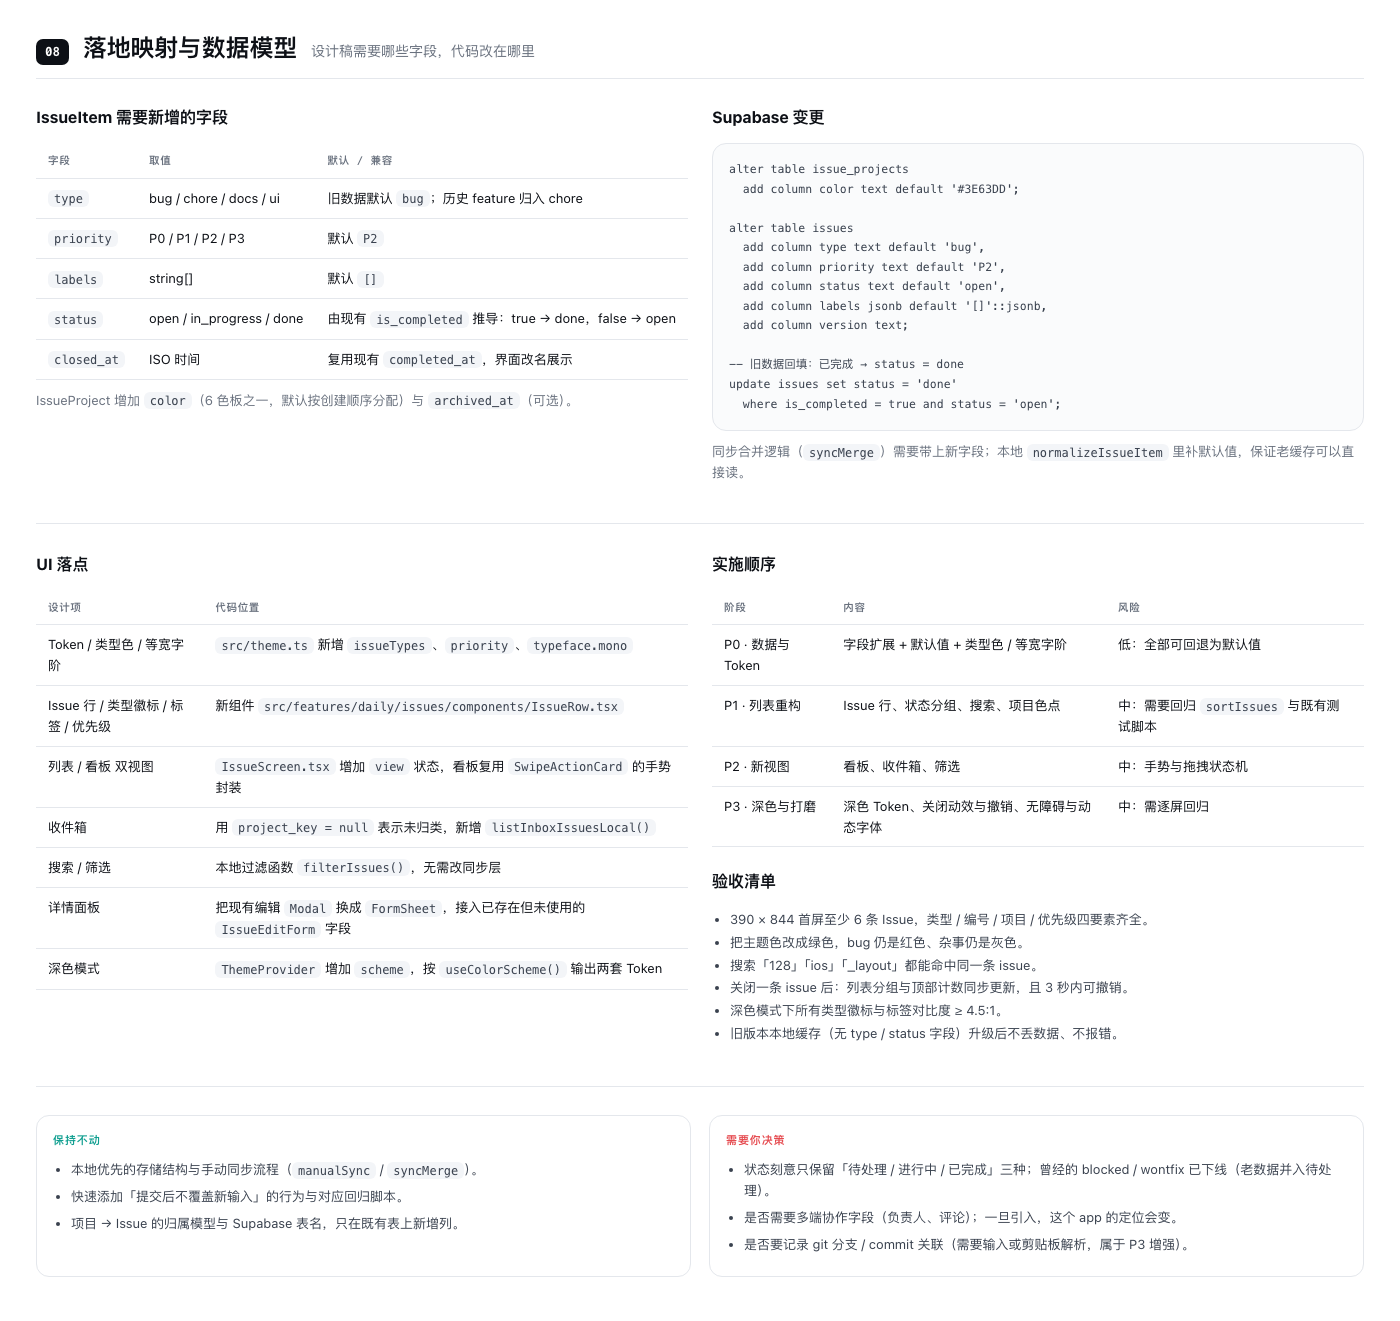
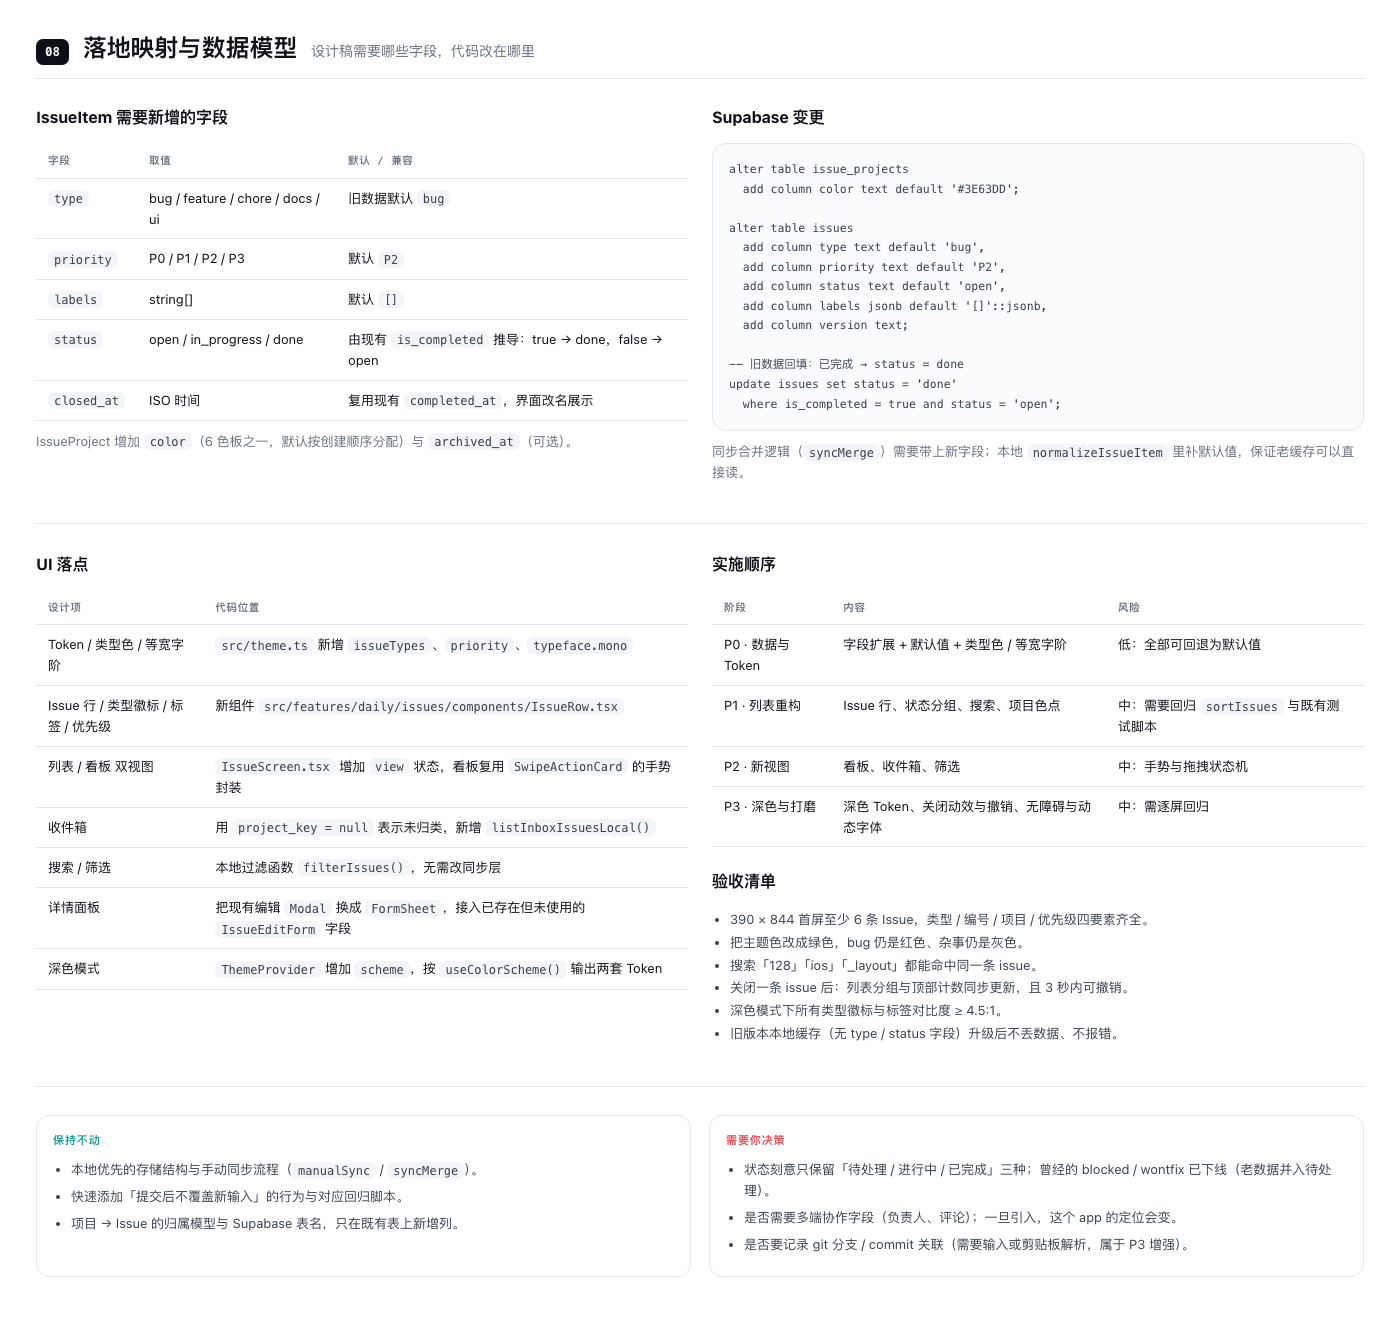
feat: 类型重新加入「功能」（Bug/功能/杂事/文档/界面），同步设计稿（含版本 1.0.3 (7)）

Changed region(s): [[0.0307, 0.0931, 0.4914, 0.3414]]

diff --git a/docs/design/issue-redesign.html b/docs/design/issue-redesign.html
@@ -15,6 +15,7 @@
     --accent:#3E63DD; --accent-dark:#2E4BC0; --accent-soft:#EDF1FD;
 
     --bug:#E5484D; --bug-bg:#FDEFEF;
+    --feat:#0E9E8F; --feat-bg:#E7F6F4;
     --chore:#67707E; --chore-bg:#EEEFF2;
     --docs:#3E63DD; --docs-bg:#EDF1FD;
     --ui:#7048E8; --ui-bg:#F1EDFE;
@@ -130,6 +131,7 @@
   .irow.done{background:#FBFCFC}
   .tbadge{width:22px;height:22px;border-radius:7px;display:flex;align-items:center;justify-content:center;flex:0 0 auto;margin-top:1px}
   .tbadge.bug{background:var(--bug-bg);color:var(--bug)}
+  .tbadge.feat{background:var(--feat-bg);color:var(--feat)}
   .tbadge.chore{background:var(--chore-bg);color:var(--chore)}
   .tbadge.docs{background:var(--docs-bg);color:var(--docs)}
   .tbadge.ui{background:var(--ui-bg);color:var(--ui)}
@@ -201,6 +203,7 @@
   .typepick .t{flex:1;height:52px;border-radius:12px;background:var(--surface-2);display:flex;flex-direction:column;align-items:center;justify-content:center;gap:3px;font-size:10.5px;font-weight:650;color:var(--muted)}
   .typepick .t svg{width:16px;height:16px}
   .typepick .t.sel{background:var(--bug-bg);color:var(--bug);box-shadow:inset 0 0 0 1.5px rgba(229,72,77,.35)}
+  .typepick .t.sel.feat{background:var(--feat-bg);color:var(--feat);box-shadow:inset 0 0 0 1.5px rgba(14,158,143,.35)}
   .typepick .t.sel.docs{background:var(--docs-bg);color:var(--docs);box-shadow:inset 0 0 0 1.5px rgba(62,99,221,.35)}
   .typepick .t.sel.ui{background:var(--ui-bg);color:var(--ui);box-shadow:inset 0 0 0 1.5px rgba(112,72,232,.35)}
 
@@ -299,6 +302,7 @@
   .dark .home-ind{background:rgba(255,255,255,.3)}
   .dark .btn.line{background:#171B22;border-color:#2A303C;color:#B6BECC}
   .dark .tbadge.bug{background:rgba(229,72,77,.16)}
+  .dark .tbadge.feat{background:rgba(14,158,143,.16)}
   .dark .tbadge.chore{background:rgba(120,130,145,.18)}
   .dark .tbadge.docs{background:rgba(96,126,240,.18)}
   .dark .tbadge.ui{background:rgba(112,72,232,.2)}
@@ -330,6 +334,7 @@
 </div>
 <script>
 const S = {
+  feat:'<svg viewBox="0 0 24 24" fill="none" stroke="currentColor" stroke-width="1.9" stroke-linecap="round" stroke-linejoin="round"><path d="M12 3.6l2 5 5 2-5 2-2 5-2-5-5-2 5-2z"/><path d="M18.6 16.6l.7 1.7 1.7.7-1.7.7-.7 1.7-.7-1.7-1.7-.7 1.7-.7z"/></svg>',
   bug:'<svg viewBox="0 0 24 24" fill="none" stroke="currentColor" stroke-width="1.9" stroke-linecap="round" stroke-linejoin="round"><path d="M8 8a4 4 0 0 1 8 0v3a4 4 0 0 1-8 0z"/><path d="M4.5 10h3.5M16 10h3.5M5 15l3-1.6M19 15l-3-1.6M8.6 5 7 3.4M15.4 5 17 3.4M12 15v4"/></svg>',
   chore:'<svg viewBox="0 0 24 24" fill="none" stroke="currentColor" stroke-width="1.9" stroke-linecap="round" stroke-linejoin="round"><path d="M14.8 6.2a3.6 3.6 0 0 1-4.9 4.6L5.6 15a2 2 0 1 0 2.8 2.8l4.2-4.3a3.6 3.6 0 0 1 4.6-4.9l-2.1 2.1.6 1.9 1.9.6z"/></svg>',
   docs:'<svg viewBox="0 0 24 24" fill="none" stroke="currentColor" stroke-width="1.9" stroke-linecap="round" stroke-linejoin="round"><path d="M13.5 3.5H7.4A2 2 0 0 0 5.4 5.5v13a2 2 0 0 0 2 2h9.2a2 2 0 0 0 2-2V9z"/><path d="M13.5 3.5V9h5.1M8.6 13h6.8M8.6 16.6h4.4"/></svg>',
@@ -358,8 +363,8 @@ const S = {
   info:'<svg viewBox="0 0 24 24" fill="none" stroke="currentColor" stroke-width="1.9" stroke-linecap="round"><circle cx="12" cy="12" r="9"/><path d="M12 11v5.5M12 7.8v.2"/></svg>',
 };
 
-const TYPE = {bug:'bug', chore:'chore', docs:'docs', ui:'ui'};
-const TYPE_LABEL = {bug:'BUG', chore:'CHORE', docs:'DOCS', ui:'UI'};
+const TYPE = {bug:'bug', feat:'feat', chore:'chore', docs:'docs', ui:'ui'};
+const TYPE_LABEL = {bug:'BUG', feat:'FEAT', chore:'CHORE', docs:'DOCS', UI:'UI'};
 const PROJ = {
   superme:{name:'SuperMe', color:'#3E63DD'},
   booky:{name:'Booky', color:'#0E9E8F'},
@@ -375,7 +380,7 @@ const ISSUES = [
    title:'iOS 27 上 UIScene 生命周期缺失导致启动白屏', labels:['ios','native'], badge:'2'},
   {id:'ISS-127', type:'bug', prio:'P1', proj:'superme', status:'open', updated:'昨天',
    title:'prebuild 后 MARKETING_VERSION 未同步到 pbxproj', labels:['release']},
-  {id:'ISS-121', type:'chore', prio:'P1', proj:'superme', status:'open', updated:'3 天前',
+  {id:'ISS-121', type:'feat', prio:'P1', proj:'superme', status:'open', updated:'3 天前',
    title:'列表支持按标签与优先级快速筛选', labels:['体验']},
   {id:'ISS-118', type:'chore', prio:'P2', proj:'superme', status:'open', updated:'5 天前',
    title:'升级 expo-audio 到 1.1.1 并回归后台播放', labels:['deps']},
@@ -630,7 +635,7 @@ document.getElementById('rest').insertAdjacentHTML('beforeend',
       '<div class="card-soft"><span class="tag new">视觉基调</span>' +
         '<div class="kv small" style="margin-top:10px;grid-template-columns:110px 1fr">' +
           '<b>克制的中性底</b><span>背景 <code>#F4F5F7</code>、表面纯白，靠 1px 描边分层；阴影只给浮层。</span>' +
-          '<b>彩色只给语义</b><span>类型（bug 红 / chore 灰 / docs 蓝 / UI 紫）与优先级是唯一的强烈色块。</span>' +
+          '<b>彩色只给语义</b><span>类型（bug 红 / feat 青 / chore 灰 / docs 蓝 / UI 紫）与优先级是唯一的强烈色块。</span>' +
           '<b>等宽承载数据</b><span>编号、标签输入、计数用 SF Mono，与正文形成「工具感」对比。</span>' +
           '<b>更小的圆角</b><span>行 12 / 卡片 12 / 面板 26，比现在的 16 更利落，接近 GitHub 与 Linear 的手感。</span>' +
         '</div></div>' +
@@ -644,6 +649,7 @@ document.getElementById('rest').insertAdjacentHTML('beforeend',
     '<h3>类型（Issue type）</h3>' +
     '<div class="swatch-row">' +
       '<div class="sw"><div class="c" style="background:#E5484D"></div><div class="m"><b>bug</b><span>#E5484D</span></div></div>' +
+      '<div class="sw"><div class="c" style="background:#0E9E8F"></div><div class="m"><b>feature 功能</b><span>#0E9E8F</span></div></div>' +
       '<div class="sw"><div class="c" style="background:#67707E"></div><div class="m"><b>chore</b><span>#67707E</span></div></div>' +
       '<div class="sw"><div class="c" style="background:#3E63DD"></div><div class="m"><b>docs</b><span>#3E63DD</span></div></div>' +
       '<div class="sw"><div class="c" style="background:#7048E8"></div><div class="m"><b>ui / design</b><span>#7048E8</span></div></div>' +
@@ -769,6 +775,7 @@ function newIssueScreen(){
       '</div>' +
       '<div class="typepick">' +
         '<span class="t sel">' + S.bug + 'Bug</span>' +
+        '<span class="t feat">' + S.feat + '功能</span>' +
         '<span class="t">' + S.chore + '杂事</span>' +
         '<span class="t">' + S.docs + '文档</span>' +
         '<span class="t">' + S.ui + '界面</span>' +
@@ -801,7 +808,7 @@ function filterScreen(){
       '<div><div class="lbl2" style="margin-bottom:7px">类型</div>' +
         '<div class="spec-row" style="gap:7px">' +
           '<span class="lbl" style="height:26px;padding:0 10px;font-size:11.5px;border-radius:8px;background:var(--bug-bg);color:var(--bug)">bug 12</span>' +
-          '<span class="lbl" style="height:26px;padding:0 10px;font-size:11.5px;border-radius:8px">ui 4</span>' +
+          '<span class="lbl" style="height:26px;padding:0 10px;font-size:11.5px;border-radius:8px">feature 6</span>' +
           '<span class="lbl" style="height:26px;padding:0 10px;font-size:11.5px;border-radius:8px">chore 2</span>' +
           '<span class="lbl" style="height:26px;padding:0 10px;font-size:11.5px;border-radius:8px">docs 1</span>' +
         '</div></div>' +
@@ -990,6 +997,7 @@ document.getElementById('rest').insertAdjacentHTML('beforeend',
       '<div class="specimen"><b class="small">类型徽标 / 优先级 / 状态</b>' +
         '<div class="spec-row">' +
           '<span style="display:flex;align-items:center;gap:6px;font-size:11.5px;color:var(--doc-muted)">' + tbadge('bug') + 'BUG</span>' +
+          '<span style="display:flex;align-items:center;gap:6px;font-size:11.5px;color:var(--doc-muted)">' + tbadge('feat') + 'FEAT</span>' +
           '<span style="display:flex;align-items:center;gap:6px;font-size:11.5px;color:var(--doc-muted)">' + tbadge('chore') + 'CHORE</span>' +
           '<span style="display:flex;align-items:center;gap:6px;font-size:11.5px;color:var(--doc-muted)">' + tbadge('docs') + 'DOCS</span>' +
           '<span style="display:flex;align-items:center;gap:6px;font-size:11.5px;color:var(--doc-muted)">' + tbadge('ui') + 'UI</span>' +
@@ -1110,6 +1118,7 @@ document.getElementById('rest').insertAdjacentHTML('beforeend',
         '<tr><td><code>hairline</code></td><td>#E2E5EA</td><td>#232935</td></tr>' +
         '<tr><td><code>ink</code></td><td>#0F1218</td><td>#EDEFF4</td></tr>' +
         '<tr><td><code>bug</code></td><td>#E5484D</td><td>#FF7B7E（底色 16% 透明）</td></tr>' +
+        '<tr><td><code>feature</code></td><td>#0E9E8F</td><td>#2FD0BE</td></tr>' +
         '<tr><td><code>accent</code></td><td>#3E63DD</td><td>#7C93FF</td></tr>' +
       '</table>' +
       '<p class="small muted" style="margin-top:10px">深色下不用阴影，靠 <code>#232935</code> 描边区分层级；类型色统一提亮并降低底饱和度，避免亮色块刺眼。</p></div>' +
@@ -1135,7 +1144,7 @@ document.getElementById('rest').insertAdjacentHTML('beforeend',
       '<div><h3>IssueItem 需要新增的字段</h3>' +
         '<table>' +
           '<tr><th>字段</th><th>取值</th><th>默认 / 兼容</th></tr>' +
-          '<tr><td><code>type</code></td><td>bug / chore / docs / ui</td><td>旧数据默认 <code>bug</code>；历史 feature 归入 chore</td></tr>' +
+          '<tr><td><code>type</code></td><td>bug / feature / chore / docs / ui</td><td>旧数据默认 <code>bug</code></td></tr>' +
           '<tr><td><code>priority</code></td><td>P0 / P1 / P2 / P3</td><td>默认 <code>P2</code></td></tr>' +
           '<tr><td><code>labels</code></td><td>string[]</td><td>默认 <code>[]</code></td></tr>' +
           '<tr><td><code>status</code></td><td>open / in_progress / done</td><td>由现有 <code>is_completed</code> 推导：true → done，false → open</td></tr>' +

diff --git a/src/local/repositories/issuesRepository.ts b/src/local/repositories/issuesRepository.ts
@@ -11,13 +11,9 @@ import { localKeys } from '../keys';
 import { getSettingsLocal, saveSettingsLocal } from '../settingsRepository';
 import { getCachedList, setCachedList } from './localListCache';
 
-const issueTypes: IssueType[] = ['bug', 'chore', 'docs', 'ui'];
+const issueTypes: IssueType[] = ['bug', 'feature', 'chore', 'docs', 'ui'];
 const issuePriorities: IssuePriority[] = ['P0', 'P1', 'P2', 'P3'];
 const issueStatuses: IssueStatus[] = ['open', 'in_progress', 'done'];
-/** 早期版本的 feature 类型已下线，历史数据并入「杂事」 */
-const legacyTypeAliases: Record<string, IssueType> = {
-  feature: 'chore',
-};
 /** 早期版本的 blocked / wontfix 已下线，统一并入「待处理」 */
 const legacyStatusAliases: Record<string, IssueStatus> = {
   blocked: 'open',
@@ -62,9 +58,7 @@ export function normalizeIssueProject(value: StoredProject, index = 0): IssuePro
 }
 
 function normalizeType(value: unknown): IssueType {
-  if (issueTypes.includes(value as IssueType)) return value as IssueType;
-  if (typeof value === 'string' && legacyTypeAliases[value]) return legacyTypeAliases[value];
-  return 'bug';
+  return issueTypes.includes(value as IssueType) ? (value as IssueType) : 'bug';
 }
 
 function normalizePriority(value: unknown): IssuePriority {

diff --git a/src/theme.ts b/src/theme.ts
@@ -30,12 +30,13 @@ export const colors = {
   tab: '#FFFFFF',
 };
 
-export type IssueTypeKey = 'bug' | 'chore' | 'docs' | 'ui';
+export type IssueTypeKey = 'bug' | 'feature' | 'chore' | 'docs' | 'ui';
 export type IssuePriorityKey = 'P0' | 'P1' | 'P2' | 'P3';
 export type IssueStatusKey = 'open' | 'in_progress' | 'done';
 
 export const issueTypes: Record<IssueTypeKey, { label: string; color: string; soft: string; icon: string }> = {
   bug: { label: 'Bug', color: '#E5484D', soft: '#FDEFEF', icon: 'bug-outline' },
+  feature: { label: '功能', color: '#0E9E8F', soft: '#E7F6F4', icon: 'sparkles-outline' },
   chore: { label: '杂事', color: '#67707E', soft: '#EEEFF2', icon: 'build-outline' },
   docs: { label: '文档', color: '#3E63DD', soft: '#EDF1FD', icon: 'document-text-outline' },
   ui: { label: '界面', color: '#7048E8', soft: '#F1EDFE', icon: 'color-wand-outline' },

diff --git a/src/features/daily/issues/types.ts b/src/features/daily/issues/types.ts
@@ -1,7 +1,7 @@
 export type SyncStatus = 'pending' | 'synced' | 'failed';
 
-/** Issue 类型：bug / 杂事 / 文档 / 界面 */
-export type IssueType = 'bug' | 'chore' | 'docs' | 'ui';
+/** Issue 类型：bug / 功能 / 杂事 / 文档 / 界面 */
+export type IssueType = 'bug' | 'feature' | 'chore' | 'docs' | 'ui';
 
 /** 优先级：P0 阻塞、P1 影响主流程、P2 普通、P3 有空再说 */
 export type IssuePriority = 'P0' | 'P1' | 'P2' | 'P3';

diff --git a/src/features/daily/issues/utils.ts b/src/features/daily/issues/utils.ts
@@ -2,6 +2,7 @@ import type { IssueEditForm, IssueFilter, IssueItem, IssuePriority, IssueStatus,
 
 export const issueTypeOptions: { key: IssueType; label: string }[] = [
   { key: 'bug', label: 'Bug' },
+  { key: 'feature', label: '功能' },
   { key: 'chore', label: '杂事' },
   { key: 'docs', label: '文档' },
   { key: 'ui', label: '界面' },

diff --git a/src/features/daily/issues/components/IssueBits.tsx b/src/features/daily/issues/components/IssueBits.tsx
@@ -8,6 +8,7 @@ import { deriveStatus, formatIssueCode, formatRelativeTime } from '../utils';
 
 const typeIcon: Record<IssueType, keyof typeof Ionicons.glyphMap> = {
   bug: 'bug-outline',
+  feature: 'sparkles-outline',
   chore: 'build-outline',
   docs: 'document-text-outline',
   ui: 'color-wand-outline',
